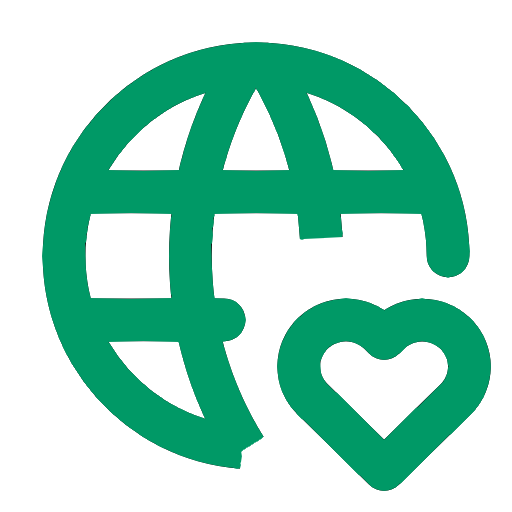
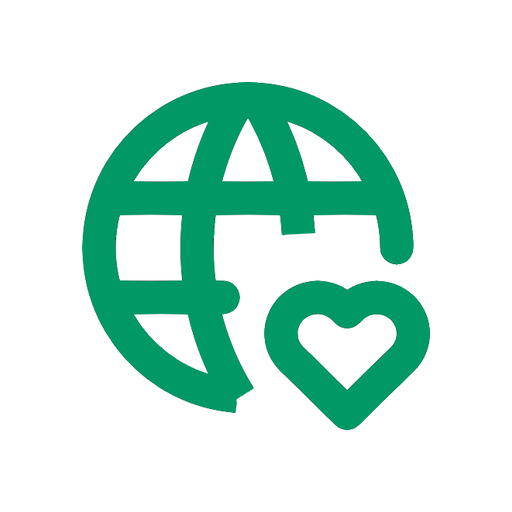
PWA standalone時の縦オーバーフロー修正とPWAアイコンの余白調整
- display-modeがstandaloneのときのみdvhをsvhに切り替え、Android PWAで
  画面より縦に長くなる不具合を解消
- apple-icon.pngとpublic/icons配下のPWAアイコンにゆとりを持たせ、
  ホーム画面追加時にぎちぎちに見えないよう調整（サイトの favicon/icon.png
  は従来サイズのまま）

diff --git a/src/app/globals.css b/src/app/globals.css
@@ -16,6 +16,22 @@ body {
   font-family: var(--font-noto-sans-jp), "Noto Sans JP", sans-serif;
 }
 
+/*
+ * 通常のブラウザではdvh（動的ビューポート高さ）が正しく画面に収まる一方、
+ * Android版ChromeのPWA（standalone）ではジェスチャーナビゲーションバー分が
+ * dvhの計算に反映されず縦にはみ出す既知の不具合があるため、standalone時のみ
+ * svh（常に画面に収まる最小のビューポート高さ）に切り替える。
+ */
+.app-viewport {
+  height: 100dvh;
+}
+
+@media (display-mode: standalone) {
+  .app-viewport {
+    height: 100svh;
+  }
+}
+
 @keyframes pop-in {
   from {
     opacity: 0;

diff --git a/src/app/page.tsx b/src/app/page.tsx
@@ -84,8 +84,8 @@ export default function Home() {
   }
 
   return (
-    <div className="min-h-dvh w-full flex items-center justify-center sm:p-6">
-      <div className="w-full sm:w-[375px] h-dvh sm:h-[720px] bg-white sm:rounded-[2rem] shadow-2xl overflow-hidden relative">
+    <div className="app-viewport w-full flex items-center justify-center sm:p-6">
+      <div className="w-full sm:w-[375px] h-full sm:h-[720px] bg-white sm:rounded-[2rem] shadow-2xl overflow-hidden relative">
         <div className="w-full h-full relative p-7">
           <button
             type="button"
